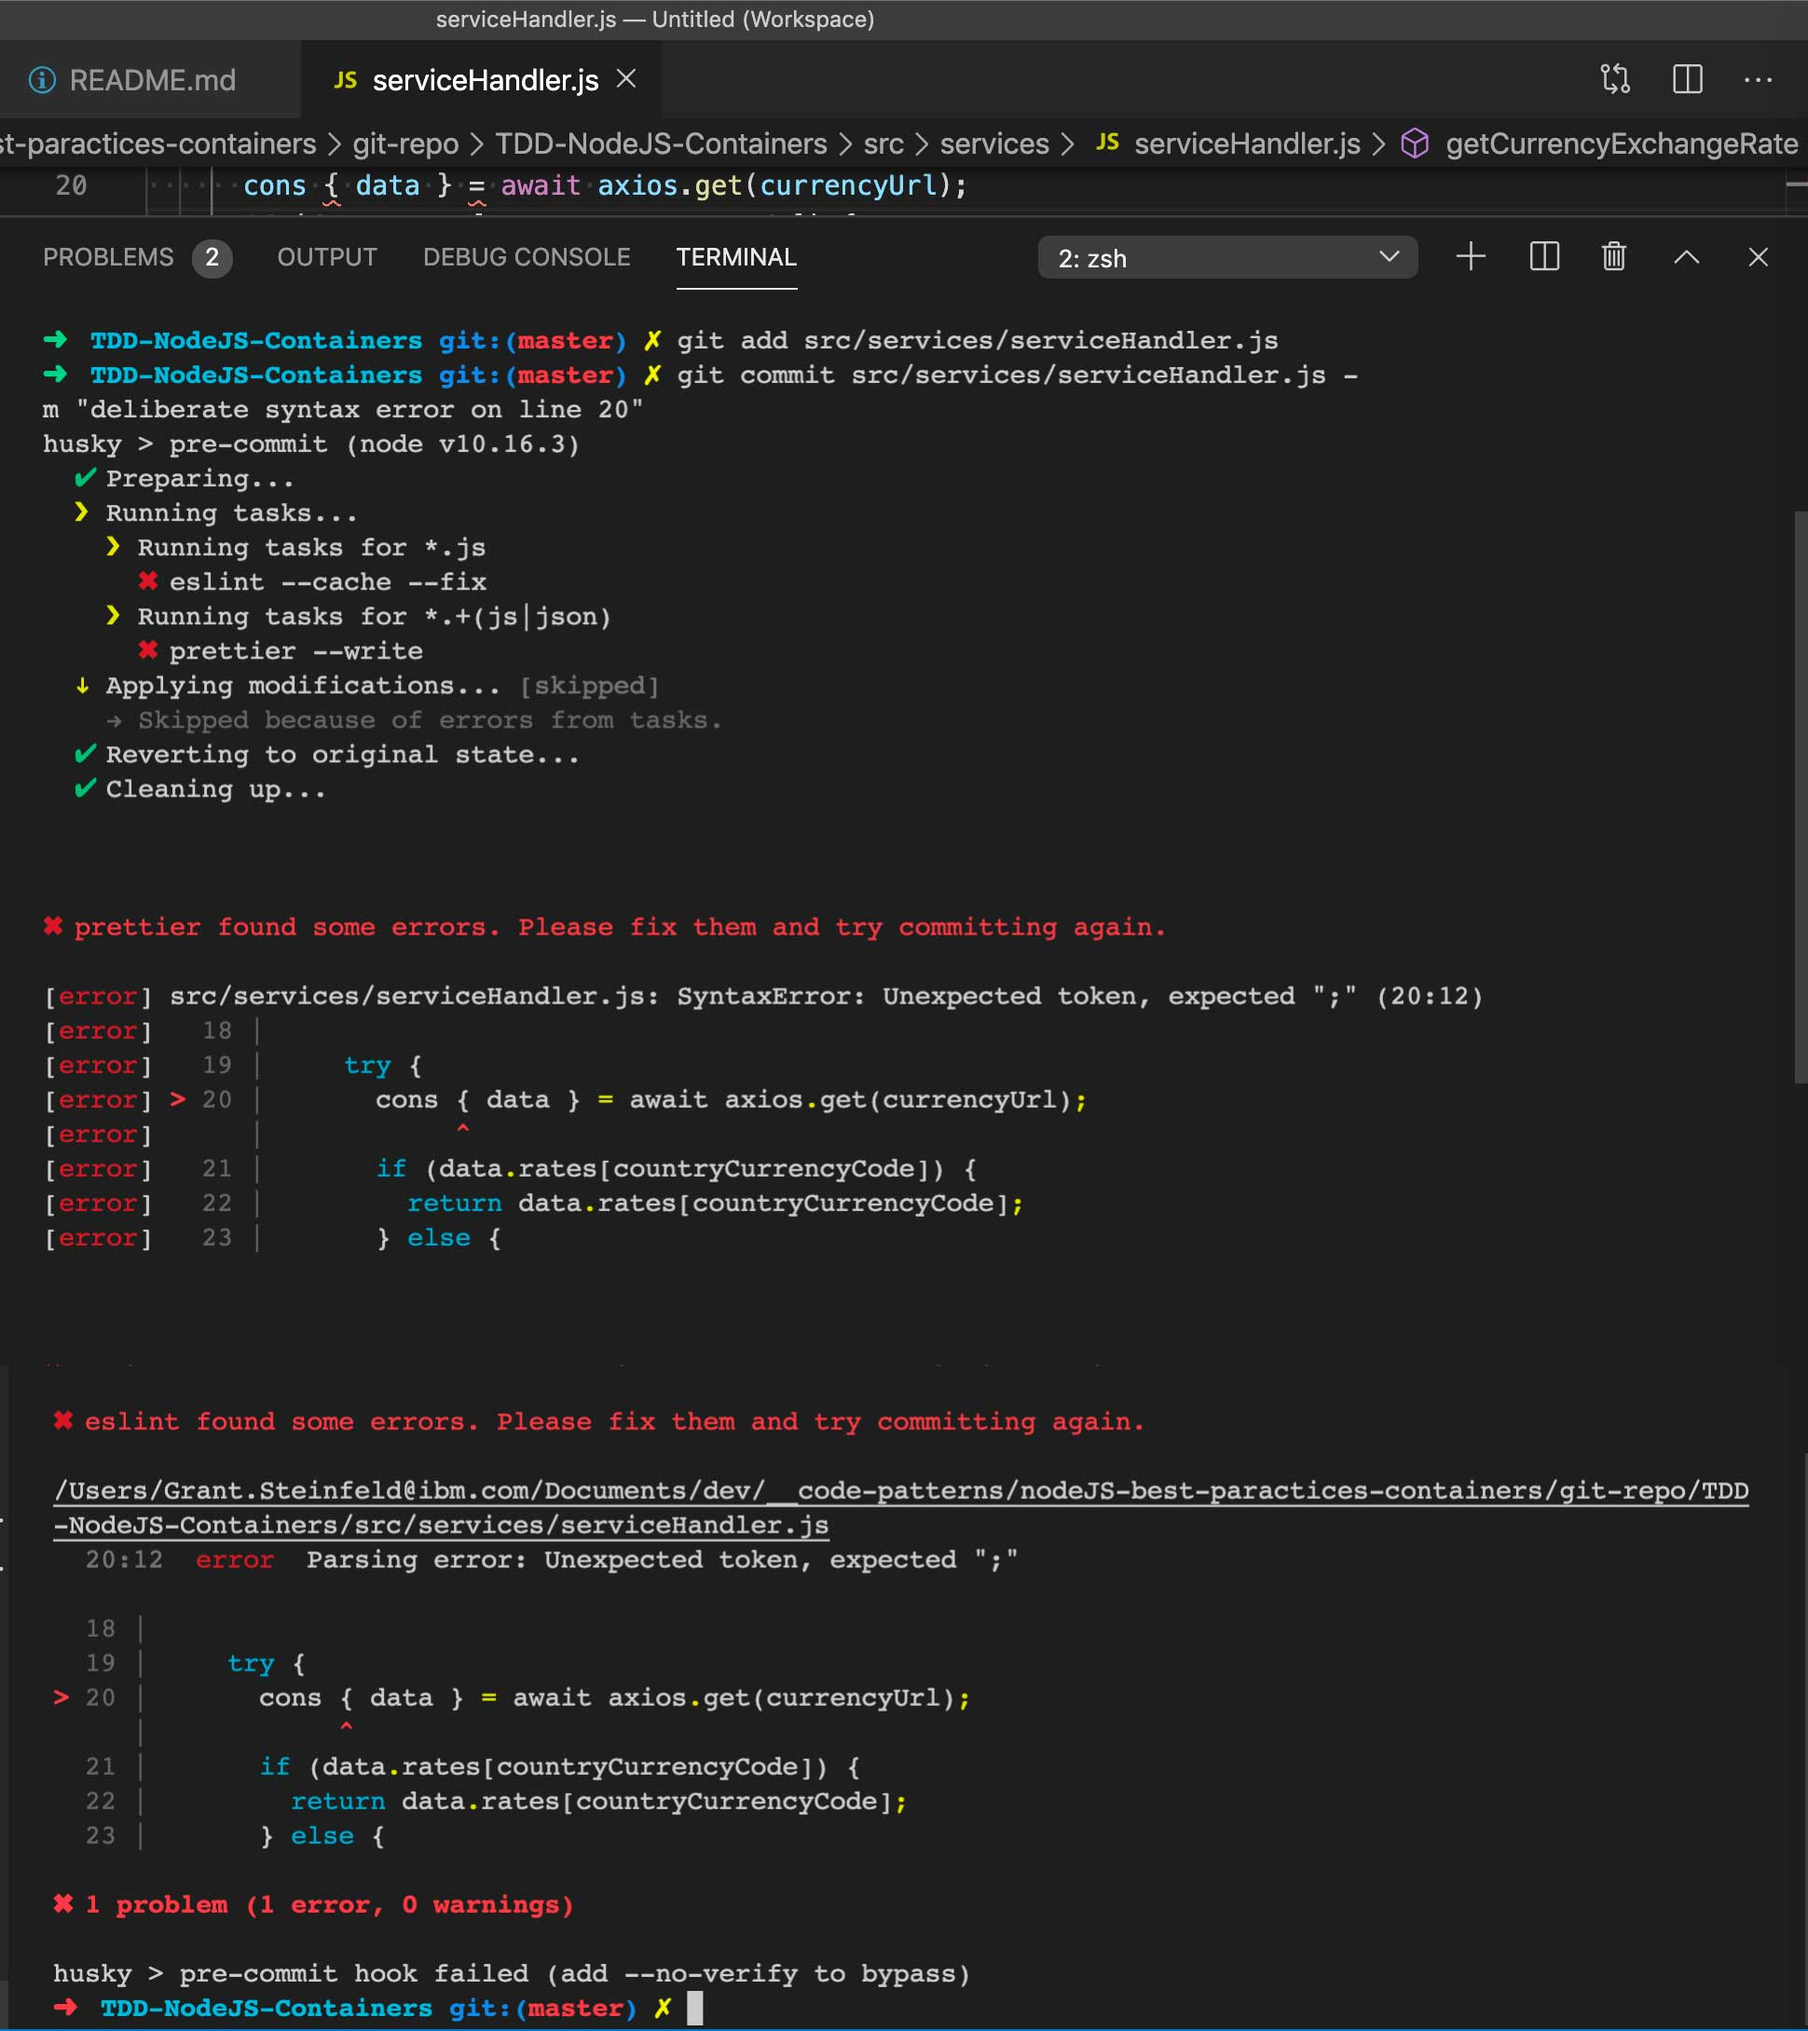
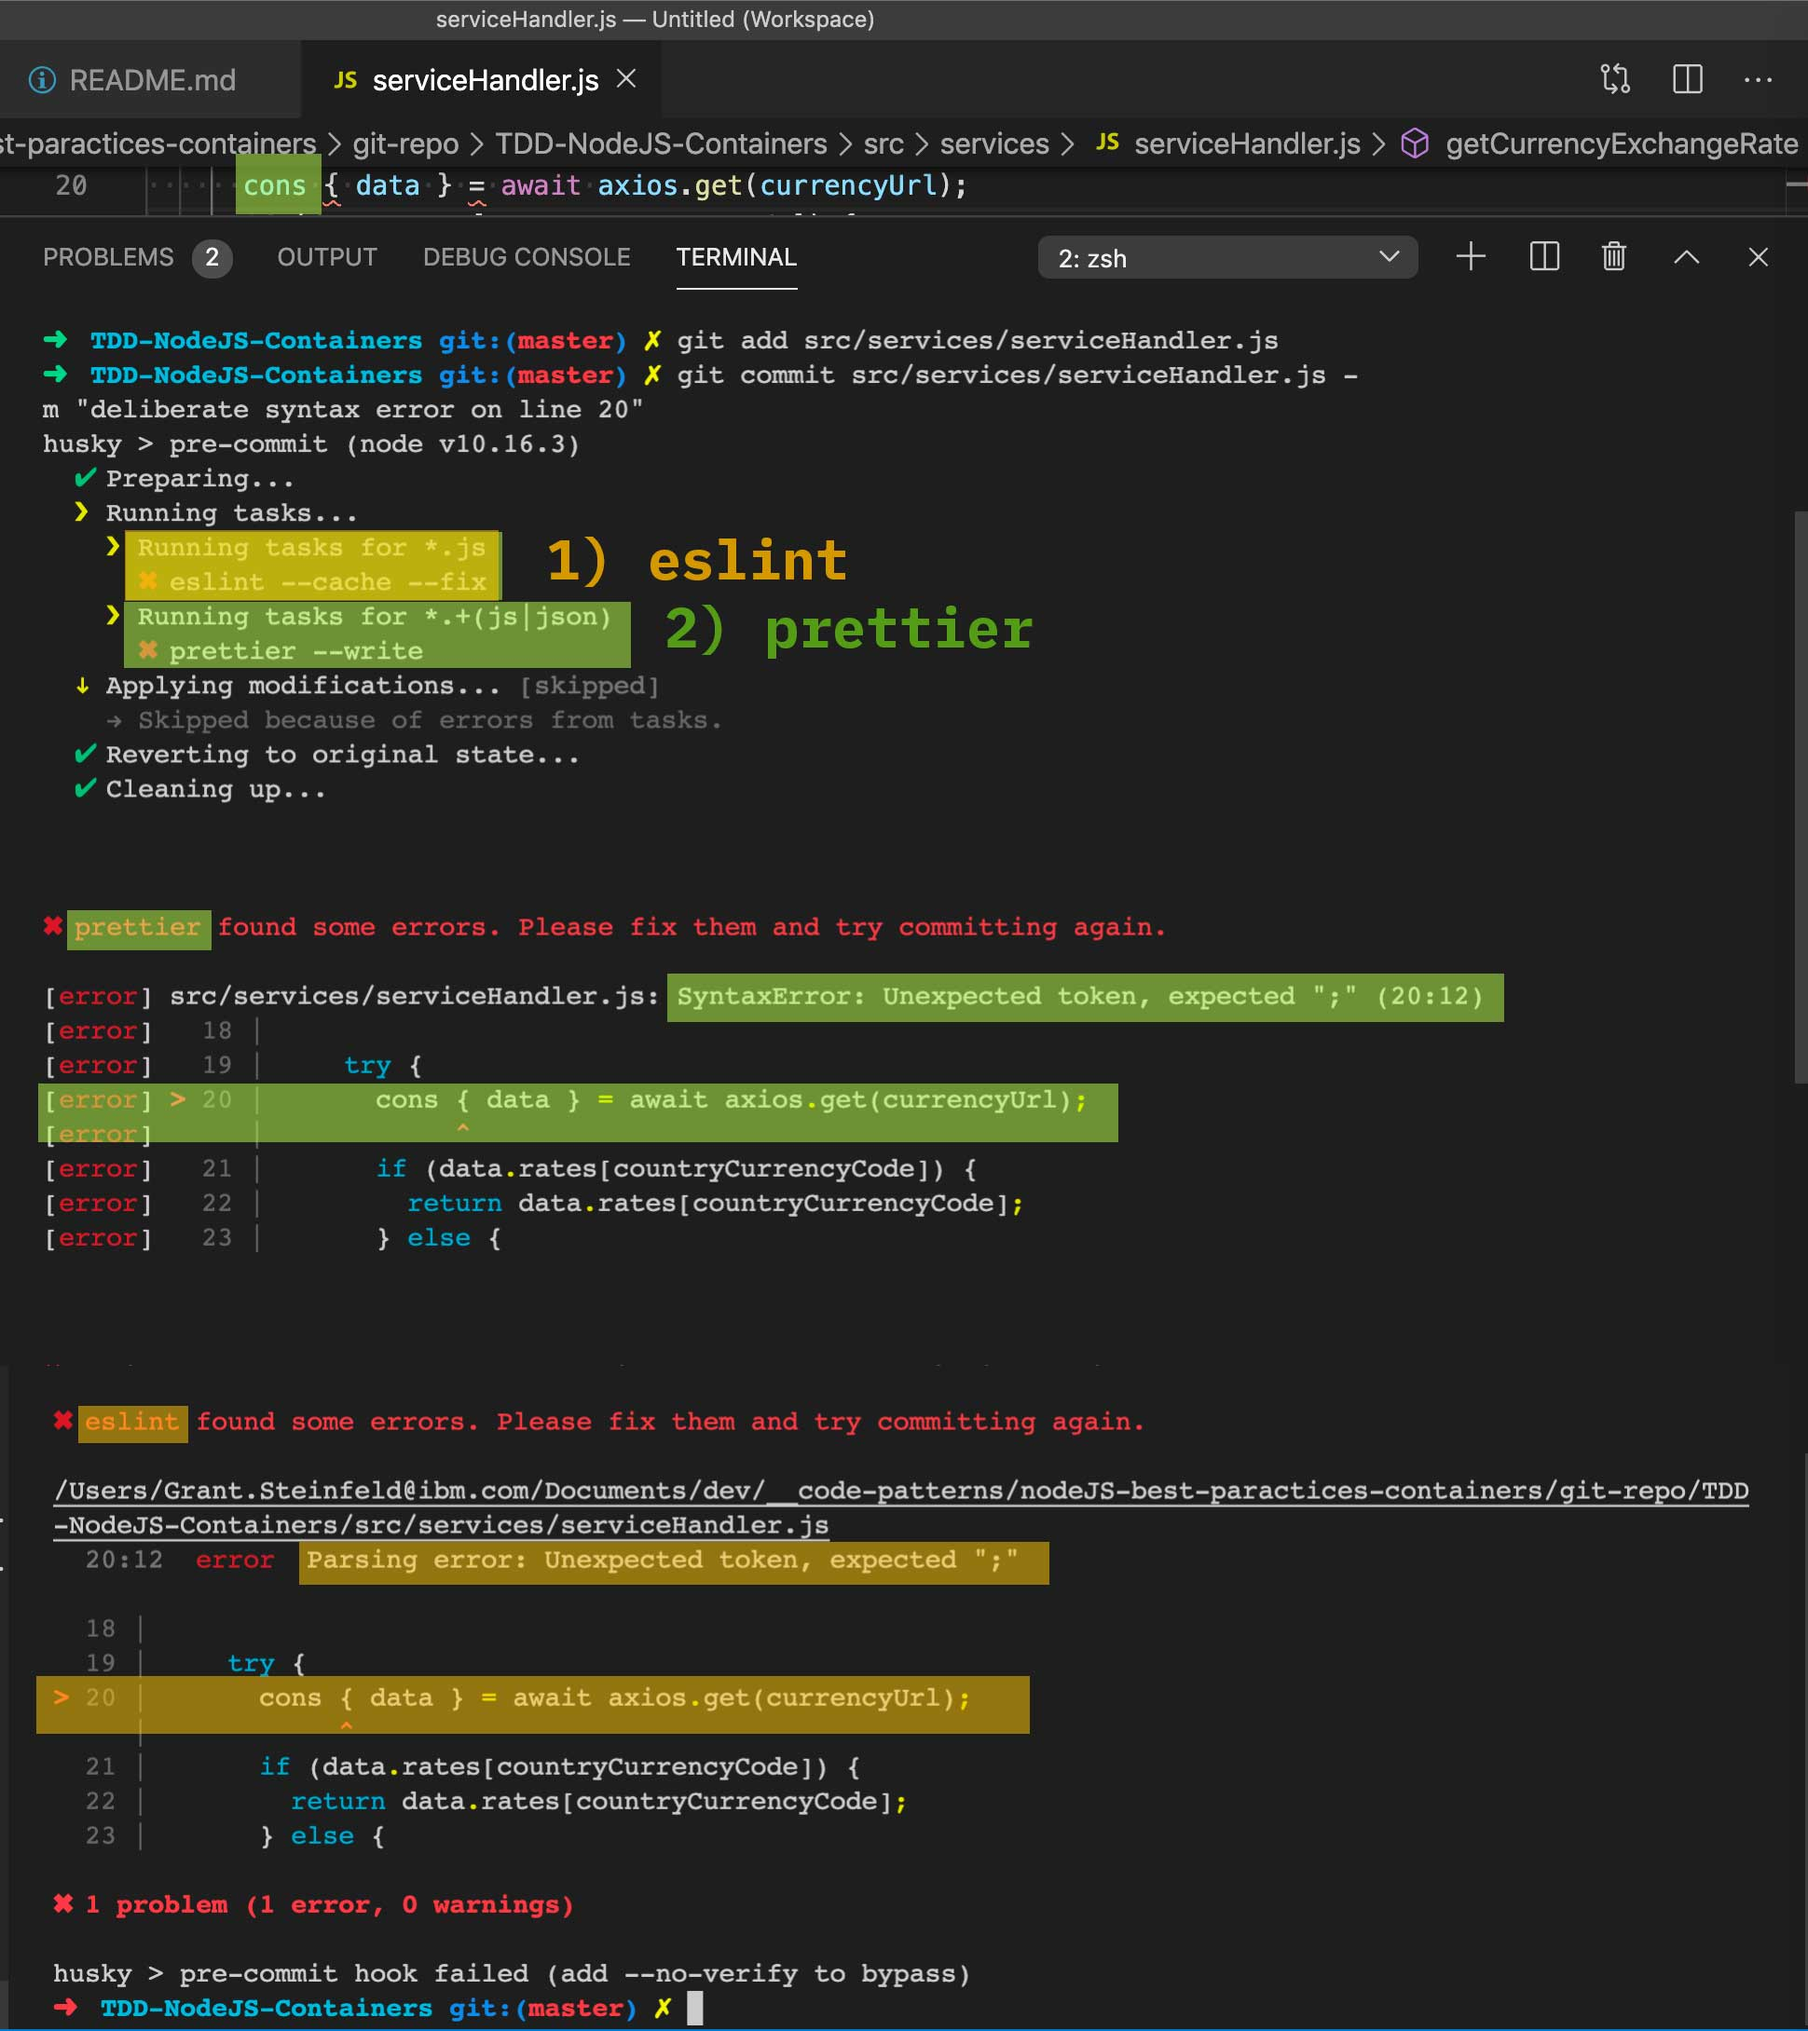
pre-commit hook

diff --git a/README.md b/README.md
@@ -112,16 +112,17 @@ The currency exchange micro-service uses the following libraries that could cons
 
     * Hot code reloading (aka On page save hooks) run tests automatically on save by running `Jest -watch`
 
-* Git pre-commit hooks ( every time you run `git commit ...` both the linter and formatter will run ) If for example you have extra spaces in your code like `const planet = " Saturn      ";` the linter will automattically clean up the code and format it correctly to be `const planet = "Saturn";`.  This newly formatted code is then commited and can be pushed.  However say you have a syntax error, for example `cnst planet = "Saturn";` the commit will fail as the symbol cnst is invalid.  You will see informative output in your console as seen in  figure 3 below.  Once you have manually corrected the syntax error you can re commit it until it passes.
+* Git pre-commit hooks ( every time you run `git commit ...` both the linter and formatter will run ) If for example you have extra spaces in your code like `const planet = " Saturn      ";` the formatter will automatically clean up the code and format it correctly to be `const planet = "Saturn";`.  This newly formatted code is then commited and can be pushed.  However say you have a syntax error, for example `cnst planet = "Saturn";` the commit will fail as the symbol `cnst` is invalid.  You will see informative output in your console as seen in figure 3 below.  Once you have manually corrected the syntax error you can re-commit it until syntax is correct and the linter passes.
 
 
-![pre-commit-hook-syntax-error-csnt-const](doc/src/images/pre-commit-hook-syntax-error-csnt-const.jpg)
+![Git pre-commit hooks](./doc/source/images/pre-commit-hook-syntax-error-csnt-const.jpg)
 
-*** figure 3. Syntax error caught by Git pre-commit hooks with a linter and formatter***
+***Figure 3. Syntax error caught by Git pre-commit hooks with both linter 1 (eslint) and formatter 2 (prettier)***
 
 
 
-    * this is achieved with the two `npm` libraries `lint-staged` and `husky` , which are installed by running:
+    * this is achieved with the two `npm` libraries `lint-staged` and `husky` , which are installed by running `npx` as such:
+
     ``` sh
         npx mrm lint-staged
     ```
